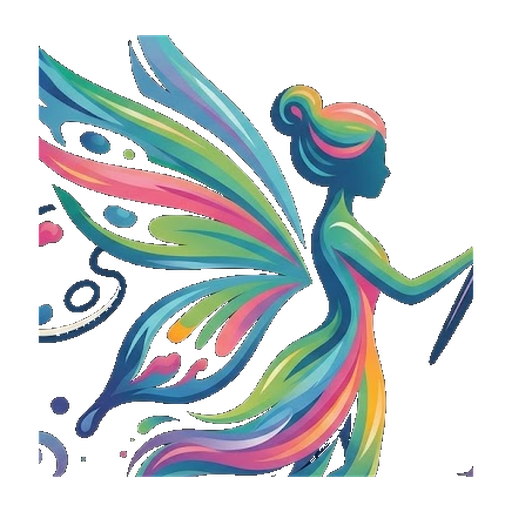
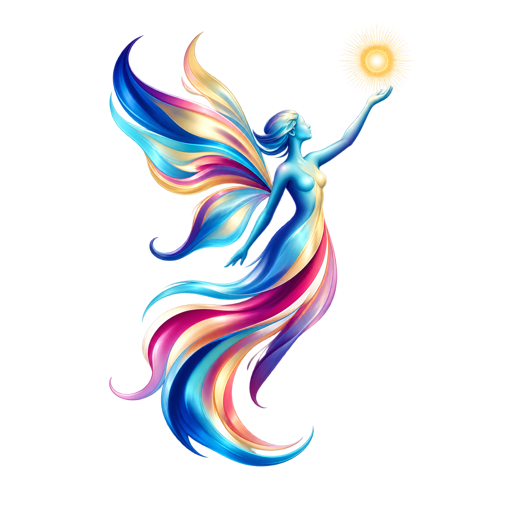
feat: archive inquiries and update fairy branding

diff --git a/app/studio/operations.css b/app/studio/operations.css
@@ -6,6 +6,7 @@
 .admin-inquiry-top { display: flex; justify-content: space-between; gap: 12px; }.admin-type-badge { color: #765b2d; font-size: 10px; letter-spacing: .16em; text-transform: uppercase; }.admin-operation-date { color: #77736b; font-size: 11px; }
 .admin-inquiry-card h2 { margin: 12px 0 0; font-family: "Cormorant Garamond", Georgia, serif; font-size: 25px; font-weight: 500; }.admin-inquiry-card h2 span { color: #77736b; font-family: "Jost", sans-serif; font-size: 12px; }
 .admin-inquiry-message { max-width: 70ch; margin: 14px 0; color: #4e4a43; line-height: 1.55; white-space: pre-wrap; }.admin-inquiry-meta { display: flex; flex-wrap: wrap; gap: 16px; color: #77736b; font-size: 11px; }.admin-inquiry-meta a { color: #765b2d; }.admin-card-actions { display: flex; align-items: center; flex-wrap: wrap; gap: 9px; margin-top: 18px; }.admin-card-actions .admin-action-button { padding: 8px 10px; }.admin-card-actions .admin-small-button { text-decoration: none; }
+.admin-inquiry-card .admin-danger-button { border-color: #b66a5d; color: #9a4f43; }
 .admin-sales-layout { display: grid; grid-template-columns: minmax(280px, 440px) minmax(0, 1fr); align-items: start; gap: clamp(28px, 6vw, 80px); margin-top: 36px; }.admin-operation-form { display: grid; gap: 14px; padding: 20px; border: 1px solid #ded9cf; background: rgba(255,255,255,.62); }.admin-operation-form h2, .admin-order-list h2, .admin-insight-section h2 { margin: 0 0 8px; color: #765b2d; font-size: 11px; font-weight: 400; letter-spacing: .18em; text-transform: uppercase; }.admin-operation-form label { display: grid; gap: 7px; color: #77736b; font-size: 10px; letter-spacing: .1em; text-transform: uppercase; }.admin-operation-form input, .admin-operation-form textarea, .admin-operation-form select { box-sizing: border-box; width: 100%; padding: 10px 11px; border: 1px solid #cfc8bb; background: #fff; color: #171715; font: 14px "Jost", sans-serif; letter-spacing: normal; text-transform: none; }.admin-two-col { display: grid; grid-template-columns: 1fr 1fr; gap: 12px; }.admin-operation-form .admin-check { display: flex; align-items: center; gap: 8px; }.admin-operation-form .admin-check input { width: auto; accent-color: #765b2d; }.admin-operation-form > .admin-action-button { justify-self: start; padding: 13px 16px; }
 .admin-order-list { display: grid; gap: 10px; }.admin-order-list h2 { margin-bottom: 6px; }.admin-order-card { display: grid; grid-template-columns: minmax(0, 1fr) auto auto; align-items: center; gap: 12px; }.admin-order-card strong, .admin-order-card span { display: block; }.admin-order-card strong { font-family: "Cormorant Garamond", Georgia, serif; font-size: 21px; font-weight: 500; }.admin-order-card span { margin-top: 4px; color: #77736b; font-size: 11px; }.admin-order-card b { color: #765b2d; font-size: 12px; font-weight: 400; white-space: nowrap; }.admin-order-card select { padding: 7px; border: 1px solid #cfc8bb; background: #fff; font: 11px "Jost", sans-serif; }.admin-order-card a { grid-column: 1 / -1; color: #765b2d; font-size: 11px; }
 .admin-customer-section { margin-top: 34px; }.admin-customer-form { max-width: 480px; margin: 20px 0; }.admin-customer-list { display: grid; gap: 12px; margin-top: 24px; max-width: 820px; }.admin-customer-heading { display: flex; justify-content: space-between; gap: 12px; }.admin-customer-card h2 { margin: 0; font-family: "Cormorant Garamond", Georgia, serif; font-size: 25px; font-weight: 500; }.admin-customer-card p { margin: 5px 0 0; color: #77736b; font-size: 12px; }.admin-customer-total { margin-top: 14px; color: #765b2d; font-size: 12px; }.admin-customer-card ul { margin: 12px 0 0; padding: 12px 0 0 18px; border-top: 1px solid #ded9cf; color: #5d5952; font-size: 12px; line-height: 1.8; }

diff --git a/components/admin-inquiries.tsx b/components/admin-inquiries.tsx
@@ -32,6 +32,15 @@ export default function InquiryAdmin({ initialInquiries }: { initialInquiries: A
     setInquiries((current) => current.map((item) => item.id === inquiry.id ? { ...item, status: next } : item));
   }
 
+  async function archiveInquiry(inquiry: AdminInquiry) {
+    const supabase = createClient();
+    if (!supabase) return setError("Supabase is not configured.");
+    const archivedAt = new Date().toISOString();
+    const { error: archiveError } = await supabase.from("inquiries").update({ archived_at: archivedAt }).eq("id", inquiry.id);
+    if (archiveError) return setError("Could not archive inquiry.");
+    setInquiries((current) => current.filter((item) => item.id !== inquiry.id));
+  }
+
   const nextStatus = (inquiry: AdminInquiry) => statuses[Math.min(statuses.indexOf(inquiry.status) + 1, statuses.length - 1)];
 
   return <section className="admin-operation-list">
@@ -47,6 +56,7 @@ export default function InquiryAdmin({ initialInquiries }: { initialInquiries: A
         <span className={`admin-status-badge status-${inquiry.status}`}>{inquiry.status}</span>
         <Hint id="replyEmail"><a className="admin-small-button" href={gmailComposeUrl(inquiry)} target="_blank" rel="noopener noreferrer" onClick={() => { if (inquiry.status === "new") void setStatus(inquiry, "replied"); }}>Reply in Gmail</a></Hint>
         <Hint id="closeInquiry"><button className="admin-action-button" disabled={inquiry.status === "closed"} onClick={() => void setStatus(inquiry, nextStatus(inquiry))} type="button"><span className="admin-action-label">{inquiry.status === "new" ? "Mark replied" : inquiry.status === "replied" ? "Close inquiry" : "Closed"}</span></button></Hint>
+        <Hint id="archiveInquiry"><button className="admin-small-button admin-danger-button" onClick={() => void archiveInquiry(inquiry)} type="button">Archive</button></Hint>
       </div>
     </article>) : <div className="admin-empty-state">No inquiries yet.</div>}
   </section>;

diff --git a/app/shop/page.tsx b/app/shop/page.tsx
@@ -13,8 +13,8 @@ export const metadata: Metadata = {
   title: "Original Fluid Art",
   description: "Browse original fluid abstract paintings by Samantha Ty, including available, reserved, and sold works.",
   alternates: { canonical: "/shop" },
-  openGraph: { title: "Original Fluid Art · Chroma Fairy", description: "Browse Samantha Ty’s original fluid abstract paintings.", url: absoluteUrl("/shop"), images: [{ url: absoluteUrl("/fairy-logo.png"), alt: "Chroma Fairy" }] },
-  twitter: { card: "summary_large_image", title: "Original Fluid Art · Chroma Fairy", description: "Browse Samantha Ty’s original fluid abstract paintings.", images: [absoluteUrl("/fairy-logo.png")] },
+  openGraph: { title: "Original Fluid Art · Chroma Fairy", description: "Browse Samantha Ty’s original fluid abstract paintings.", url: absoluteUrl("/shop"), images: [{ url: absoluteUrl("/fairy-logo-option-v2.png"), alt: "Chroma Fairy" }] },
+  twitter: { card: "summary_large_image", title: "Original Fluid Art · Chroma Fairy", description: "Browse Samantha Ty’s original fluid abstract paintings.", images: [absoluteUrl("/fairy-logo-option-v2.png")] },
 };
 
 export default function ShopPage() {
@@ -24,7 +24,7 @@ export default function ShopPage() {
           <header className="shop-header">
             <Link className="shop-back chroma-text" href="/">← Back home</Link>
             <Link aria-label="Chroma Fairy home" className="shop-brand chroma-text" href="/">
-              <img alt="Chroma Fairy" src="/fairy-logo.png" />
+              <img alt="Chroma Fairy" src="/fairy-logo-option-v2.png" />
             </Link>
           </header>
           <section className="shop-intro">

diff --git a/app/shop/[slug]/page.tsx b/app/shop/[slug]/page.tsx
@@ -17,7 +17,7 @@ export async function generateMetadata({ params }: { params: Promise<{ slug: str
   const { data: work } = await supabase.from("works").select("id, title, year, description, slug").eq("slug", slug).neq("status", "draft").maybeSingle();
   if (!work) return { title: "Work not found" };
   const { data: image } = await supabase.from("work_images").select("storage_path, alt").eq("work_id", work.id).order("is_primary", { ascending: false }).order("display_order").limit(1).maybeSingle();
-  const imageUrl = image ? getArtworkUrl(supabase, image.storage_path) : absoluteUrl("/fairy-logo.png");
+  const imageUrl = image ? getArtworkUrl(supabase, image.storage_path) : absoluteUrl("/fairy-logo-option-v2.png");
   const description = work.description || `${work.title}, an original fluid abstract painting by Samantha Ty from ${work.year}.`;
   return { title: work.title, description, alternates: { canonical: `/shop/${work.slug}` }, openGraph: { type: "website", title: `${work.title} · Chroma Fairy`, description, url: absoluteUrl(`/shop/${work.slug}`), images: [{ url: imageUrl, alt: image?.alt || work.title }] }, twitter: { card: "summary_large_image", title: `${work.title} · Chroma Fairy`, description, images: [imageUrl] } };
 }

diff --git a/app/page.tsx b/app/page.tsx
@@ -10,8 +10,8 @@ export const metadata: Metadata = {
   title: "Chroma Fairy",
   description: "Discover Samantha Ty’s fluid abstract paintings, commissions, exhibitions, and original works from the Philippines.",
   alternates: { canonical: "/" },
-  openGraph: { title: "Chroma Fairy", description: "Fluid abstract paintings shaped by water, movement, and nature.", url: absoluteUrl("/"), images: [{ url: absoluteUrl("/fairy-logo.png"), alt: "Chroma Fairy" }] },
-  twitter: { card: "summary_large_image", title: "Chroma Fairy", description: "Fluid abstract paintings shaped by water, movement, and nature.", images: [absoluteUrl("/fairy-logo.png")] },
+  openGraph: { title: "Chroma Fairy", description: "Fluid abstract paintings shaped by water, movement, and nature.", url: absoluteUrl("/"), images: [{ url: absoluteUrl("/fairy-logo-option-v2.png"), alt: "Chroma Fairy" }] },
+  twitter: { card: "summary_large_image", title: "Chroma Fairy", description: "Fluid abstract paintings shaped by water, movement, and nature.", images: [absoluteUrl("/fairy-logo-option-v2.png")] },
 };
 
 function getHomeSource() {

diff --git a/app/layout.tsx b/app/layout.tsx
@@ -9,8 +9,8 @@ export const metadata: Metadata = {
   title: { default: "Chroma Fairy", template: "%s · Chroma Fairy" },
   description: SITE_DESCRIPTION,
   alternates: { canonical: SITE_URL },
-  openGraph: { type: "website", siteName: SITE_NAME, title: "Chroma Fairy", description: SITE_DESCRIPTION, url: SITE_URL, images: [{ url: absoluteUrl("/fairy-logo.png"), alt: "Chroma Fairy" }] },
-  twitter: { card: "summary_large_image", title: "Chroma Fairy", description: SITE_DESCRIPTION, images: [absoluteUrl("/fairy-logo.png")] },
+  openGraph: { type: "website", siteName: SITE_NAME, title: "Chroma Fairy", description: SITE_DESCRIPTION, url: SITE_URL, images: [{ url: absoluteUrl("/fairy-logo-option-v2.png"), alt: "Chroma Fairy" }] },
+  twitter: { card: "summary_large_image", title: "Chroma Fairy", description: SITE_DESCRIPTION, images: [absoluteUrl("/fairy-logo-option-v2.png")] },
   robots: { index: true, follow: true },
 };
 

diff --git a/lib/supabase/types.ts b/lib/supabase/types.ts
@@ -114,6 +114,7 @@ export type Inquiry = {
   timeline: string | null;
   source: string | null;
   status: InquiryStatus;
+  archived_at: string | null;
   notified_at: string | null;
   created_at: string | null;
   updated_at: string | null;
@@ -298,8 +299,8 @@ export type Database = {
       };
       inquiries: {
         Row: Inquiry;
-        Insert: Omit<Inquiry, "id" | "created_at" | "updated_at" | "status" | "notified_at"> &
-          Partial<Pick<Inquiry, "id" | "created_at" | "updated_at" | "status" | "notified_at">>;
+        Insert: Omit<Inquiry, "id" | "created_at" | "updated_at" | "status" | "archived_at" | "notified_at"> &
+          Partial<Pick<Inquiry, "id" | "created_at" | "updated_at" | "status" | "archived_at" | "notified_at">>;
         Update: Partial<Inquiry>;
         Relationships: [];
       };

diff --git a/app/globals.css b/app/globals.css
@@ -200,7 +200,7 @@ textarea:focus-visible {
 
 .animated-fairy-art {
   position: relative;
-  width: calc(var(--fairy-size, 108px) * 1.42);
+  width: calc(var(--fairy-size, 108px) * .667);
   height: var(--fairy-size, 108px);
   transform-origin: center;
   animation: fairy-life 4.8s ease-in-out infinite;
@@ -311,11 +311,11 @@ textarea:focus-visible {
   background-size: 260% 100%;
   mix-blend-mode: screen;
   opacity: calc(var(--fairy-intensity, .72) * .9);
-  mask-image: url('/fairy-logo.png');
+  mask-image: url('/fairy-logo-option-v2.png');
   mask-position: center;
   mask-repeat: no-repeat;
   mask-size: contain;
-  -webkit-mask-image: url('/fairy-logo.png');
+  -webkit-mask-image: url('/fairy-logo-option-v2.png');
   -webkit-mask-position: center;
   -webkit-mask-repeat: no-repeat;
   -webkit-mask-size: contain;

diff --git a/app/studio/(protected)/inquiries/page.tsx b/app/studio/(protected)/inquiries/page.tsx
@@ -9,7 +9,7 @@ export default async function AdminInquiriesPage() {
   const supabase = await createClient();
   if (!supabase) return <AdminMessage message="Supabase is not configured." />;
   const [{ data: inquiries, error }, { data: works }] = await Promise.all([
-    supabase.from("inquiries").select("*").order("created_at", { ascending: false }),
+    supabase.from("inquiries").select("*").is("archived_at", null).order("created_at", { ascending: false }),
     supabase.from("works").select("id, title, slug"),
   ]);
   if (error) return <AdminMessage message="Inquiries could not be loaded." />;

diff --git a/lib/studio-hints.ts b/lib/studio-hints.ts
@@ -46,6 +46,7 @@ export const studioHints = {
   cancel: "Discard changes and go back.",
   replyEmail: "Opens your email app to reply to this lead.",
   closeInquiry: "Mark this inquiry handled so it drops off your active list.",
+  archiveInquiry: "Hide this inquiry from the active inbox while keeping it stored in your records.",
   recordSale: "Log a completed sale — marks the piece Sold and adds it to revenue.",
   chooseWork: "Pick the piece that sold.",
   customer: "Links the buyer — matches an existing customer by email, or creates one.",

diff --git a/components/animated-fairy.tsx b/components/animated-fairy.tsx
@@ -17,7 +17,7 @@ export default function AnimatedFairy({ size = 108, intensity = 0.72, className 
   return (
     <div aria-label="Chroma Fairy" className={`animated-fairy ${className}`} role="img" style={style}>
       <div className="animated-fairy-art">
-        <img alt="" src="/fairy-logo.png" />
+        <img alt="" src="/fairy-logo-option-v2.png" />
         <span aria-hidden="true" className="animated-fairy-shimmer" />
       </div>
     </div>

diff --git a/app/shop/shop.css b/app/shop/shop.css
@@ -49,11 +49,11 @@
   opacity: 0;
   pointer-events: none;
   mix-blend-mode: screen;
-  mask-image: url('/fairy-logo.png');
+  mask-image: url('/fairy-logo-option-v2.png');
   mask-position: center;
   mask-repeat: no-repeat;
   mask-size: contain;
-  -webkit-mask-image: url('/fairy-logo.png');
+  -webkit-mask-image: url('/fairy-logo-option-v2.png');
   -webkit-mask-position: center;
   -webkit-mask-repeat: no-repeat;
   -webkit-mask-size: contain;
